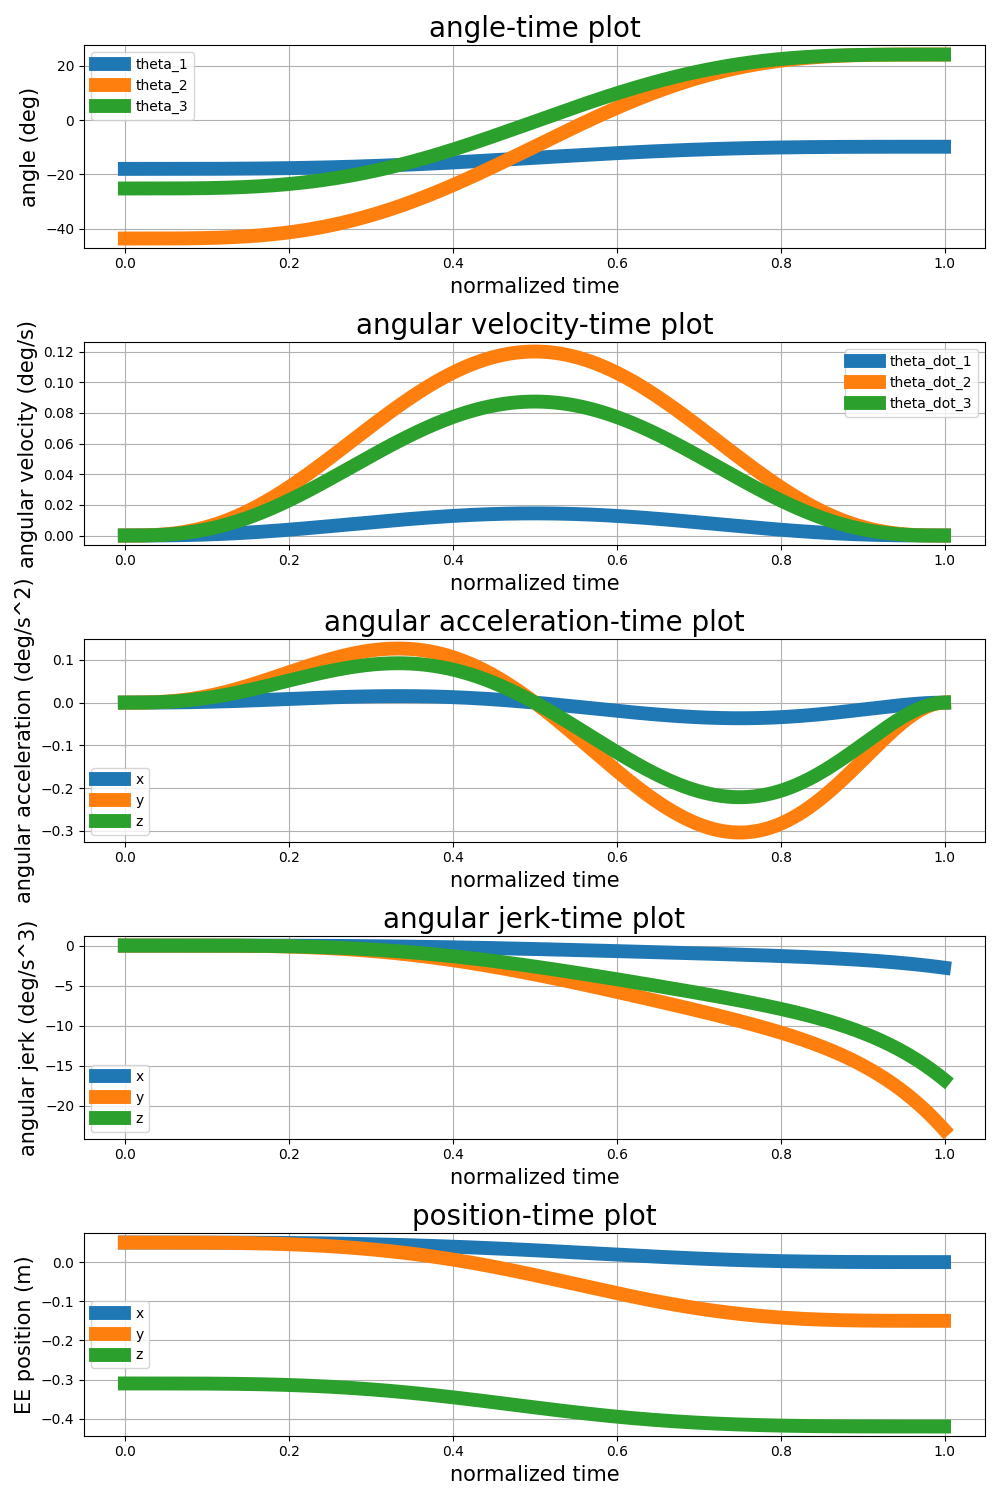
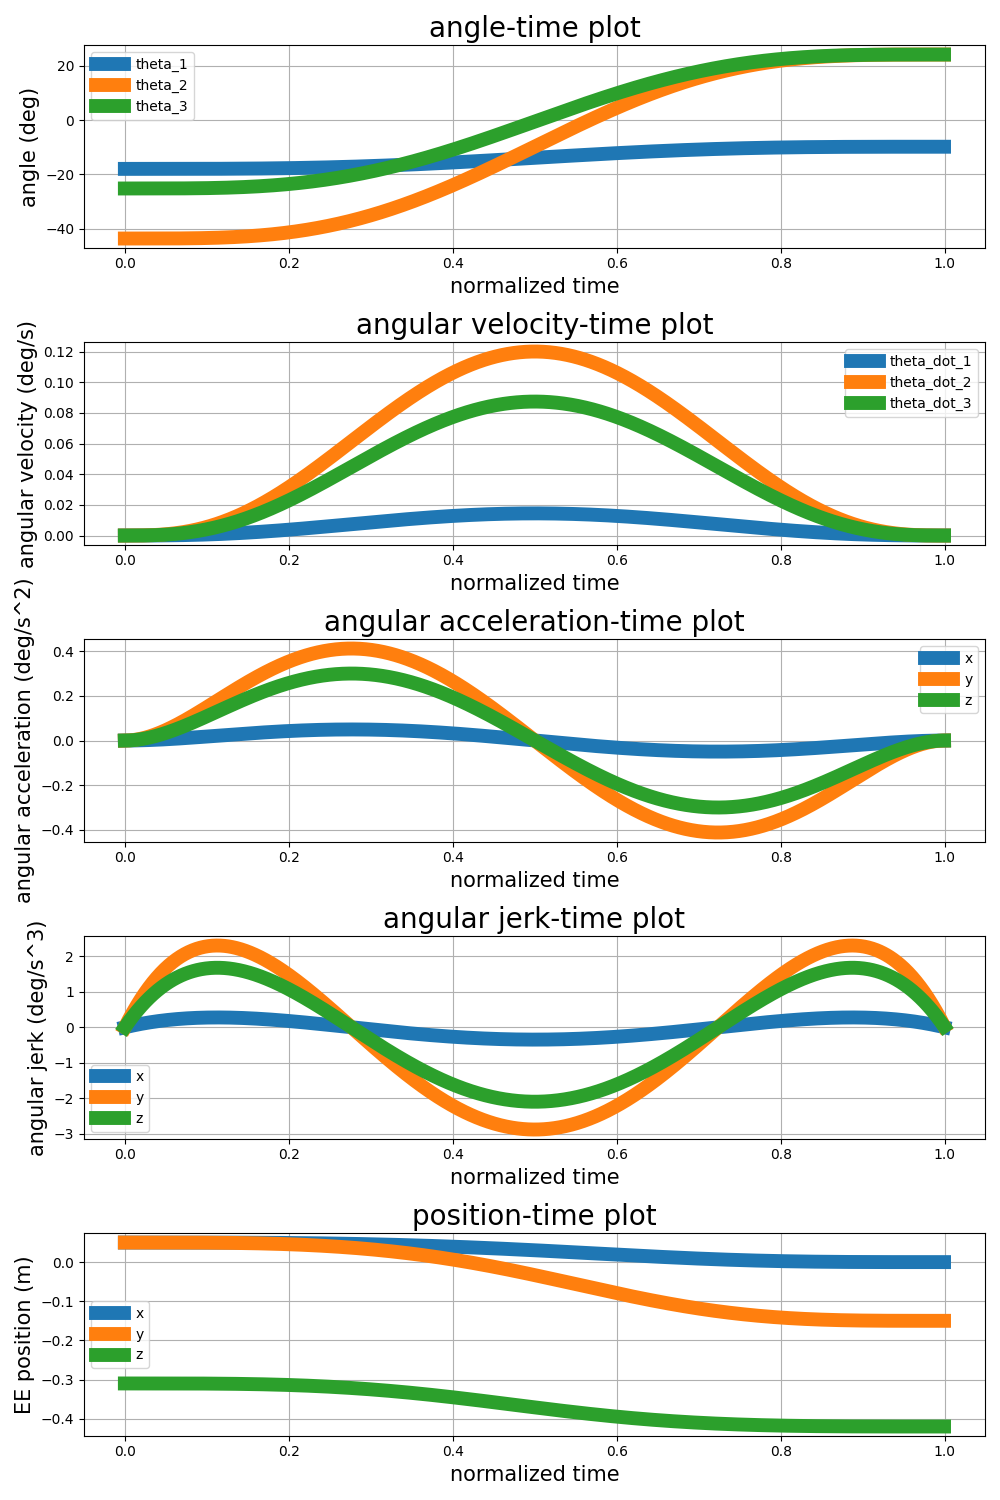
fixed the code

Changed region(s): [[0.093, 0.6133, 0.961, 0.7667], [0.062, 0.4293, 0.992, 0.5827], [0.0, 0.6133, 0.093, 0.7667]]

diff --git a/python/path_planning.py b/python/path_planning.py
@@ -46,11 +46,11 @@ class PathPlannerPTP:
 		theta_dot_t = np.array(self.theta_f - self.theta_i)/T*s_tau_d
 
 		# theta double dot time profile
-		s_tau_dd = -840*tau**6 + 2100*tau**5 - 1680*tau**4 + 420*tau**3
+		s_tau_dd = -840*tau**5 + 2100*tau**4 - 1680*tau**3 + 420*tau**2
 		theta_ddot_t = np.array(self.theta_f - self.theta_i)/T*s_tau_dd
 
 		# theta triple dot time profile
-		s_tau_ddd = -4200*tau**6 + 8400*tau**5 - 5040*tau**4 + 420*tau**3
+		s_tau_ddd = -4200*tau**4 + 8400*tau**3 - 5040*tau**2 + 840*tau**1
 		theta_dddot_t = np.array(self.theta_f - self.theta_i)/T*s_tau_ddd
 
 		# checking the forward kinematics 
